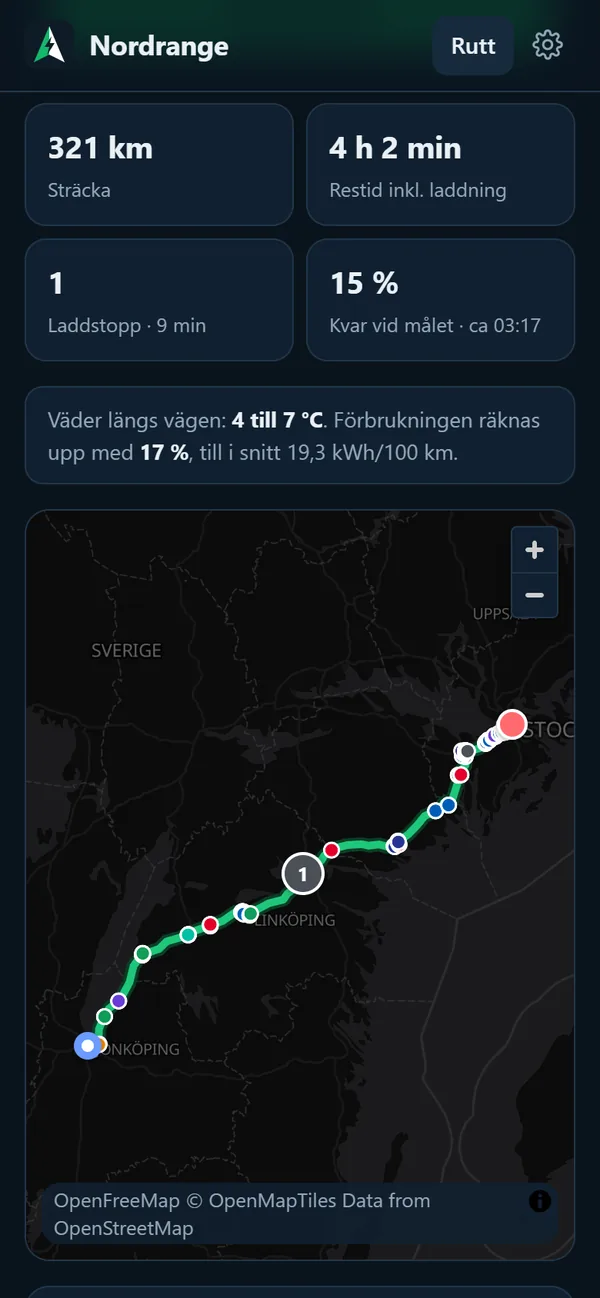
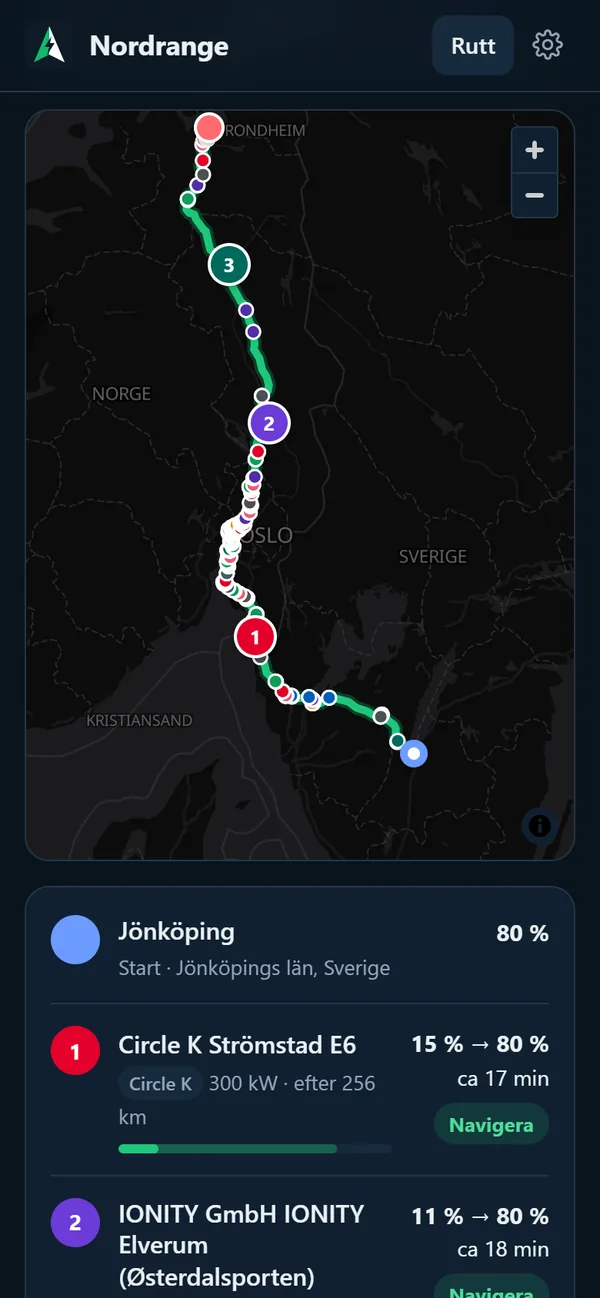
Skarp hover utan 3D-lutning och ny Nordrange-bild med rutten Jönköping-Trondheim

diff --git a/public/index.html b/public/index.html
@@ -20,7 +20,7 @@
 <meta property="og:url" content="https://junestaden.se/">
 <meta property="og:title" content="Junestaden – webbverktyg för bygg och vardag">
 <meta property="og:description" content="Nordrange, Formelkollen, Mängdkollen och EPAkollen – gratis webbverktyg för elbilsresor, VVS-formler, materialåtgång och EPA-resor. Utan inloggning, i mobilen och på datorn.">
-<meta property="og:image" content="https://junestaden.se/img/og.jpg?v=5">
+<meta property="og:image" content="https://junestaden.se/img/og.jpg?v=6">
 <meta property="og:image:width" content="1200">
 <meta property="og:image:height" content="630">
 <meta name="twitter:card" content="summary_large_image">
@@ -223,7 +223,6 @@ h1 em { color: var(--muted); }
   text-decoration: none;
   border-radius: 20px;
   outline: none;
-  perspective: 900px;
   transition: opacity .4s;
 }
 .card[data-site="nordrange"] { --accent: #1fc77a; }
@@ -242,13 +241,14 @@ h1 em { color: var(--muted); }
     var(--bg-2);
   border: 1px solid var(--line);
   box-shadow: var(--shadow);
-  transform: rotateX(var(--rx, 0deg)) rotateY(var(--ry, 0deg)) translateY(0);
-  transition: transform .5s cubic-bezier(.2,.7,.2,1), box-shadow .5s, border-color .4s;
-  will-change: transform;
+  top: 0;
+  transition: top .5s cubic-bezier(.2,.7,.2,1), box-shadow .5s, border-color .4s;
 }
 .phone {
   position: absolute;
-  left: 50%;
+  left: 0;
+  right: 0;
+  margin-inline: auto;
   top: 11%;
   width: 40%;
   border: 5px solid var(--frame);
@@ -256,8 +256,7 @@ h1 em { color: var(--muted); }
   overflow: hidden;
   background: #000;
   box-shadow: 0 24px 48px -16px rgba(0,0,0,.7);
-  transform: translateX(-50%);
-  transition: transform .7s cubic-bezier(.2,.7,.2,1);
+  transition: top .7s cubic-bezier(.2,.7,.2,1);
 }
 .phone img {
   display: block;
@@ -317,12 +316,12 @@ h2 {
 /* Hover- och fokusläge */
 .card:hover .shot,
 .card:focus-visible .shot {
-  transform: rotateX(var(--rx, 0deg)) rotateY(var(--ry, 0deg)) translateY(-8px);
+  top: -8px;
   box-shadow: var(--shadow-hover), 0 0 0 1px color-mix(in srgb, var(--accent) 55%, transparent);
   border-color: transparent;
 }
 .card:hover .phone,
-.card:focus-visible .phone { transform: translateX(-50%) translateY(-6%); }
+.card:focus-visible .phone { top: 5%; }
 .card:hover .arrow,
 .card:focus-visible .arrow {
   background: var(--accent);
@@ -338,7 +337,7 @@ h2 {
 }
 
 /* Tryck på mobil */
-.card:active .shot { transform: scale(.985); transition-duration: .15s; }
+.card:active .shot { top: -4px; transition-duration: .15s; }
 
 footer {
   margin-top: auto;
@@ -421,7 +420,7 @@ footer .wrap {
   <section class="projects" aria-label="Projekt">
     <a class="card reveal" data-site="nordrange" href="https://nordrange.se">
       <div class="shot">
-        <div class="phone"><img src="img/nordrange.webp" alt="Nordrange i mobilen: rutt Jönköping–Stockholm, 321 km med ett laddstopp" width="600" height="1298" decoding="async"></div>
+        <div class="phone"><img src="img/nordrange.webp" alt="Nordrange i mobilen: rutten Jönköping–Trondheim, 872 km med tre laddstopp" width="600" height="1298" decoding="async"></div>
       </div>
       <div class="meta">
         <div class="meta-top">
@@ -488,25 +487,6 @@ footer .wrap {
 
 <script>
 document.getElementById('year').textContent = new Date().getFullYear();
-
-// Lätt 3D-lutning som följer muspekaren (bara med mus, inte touch)
-if (matchMedia('(hover: hover) and (pointer: fine)').matches &&
-    !matchMedia('(prefers-reduced-motion: reduce)').matches) {
-  document.querySelectorAll('.card').forEach(function (card) {
-    var shot = card.querySelector('.shot');
-    shot.addEventListener('pointermove', function (e) {
-      var r = shot.getBoundingClientRect();
-      var x = (e.clientX - r.left) / r.width - .5;
-      var y = (e.clientY - r.top) / r.height - .5;
-      shot.style.setProperty('--ry', (x * 6).toFixed(2) + 'deg');
-      shot.style.setProperty('--rx', (-y * 6).toFixed(2) + 'deg');
-    });
-    card.addEventListener('pointerleave', function () {
-      shot.style.removeProperty('--rx');
-      shot.style.removeProperty('--ry');
-    });
-  });
-}
 </script>
 </body>
 </html>
